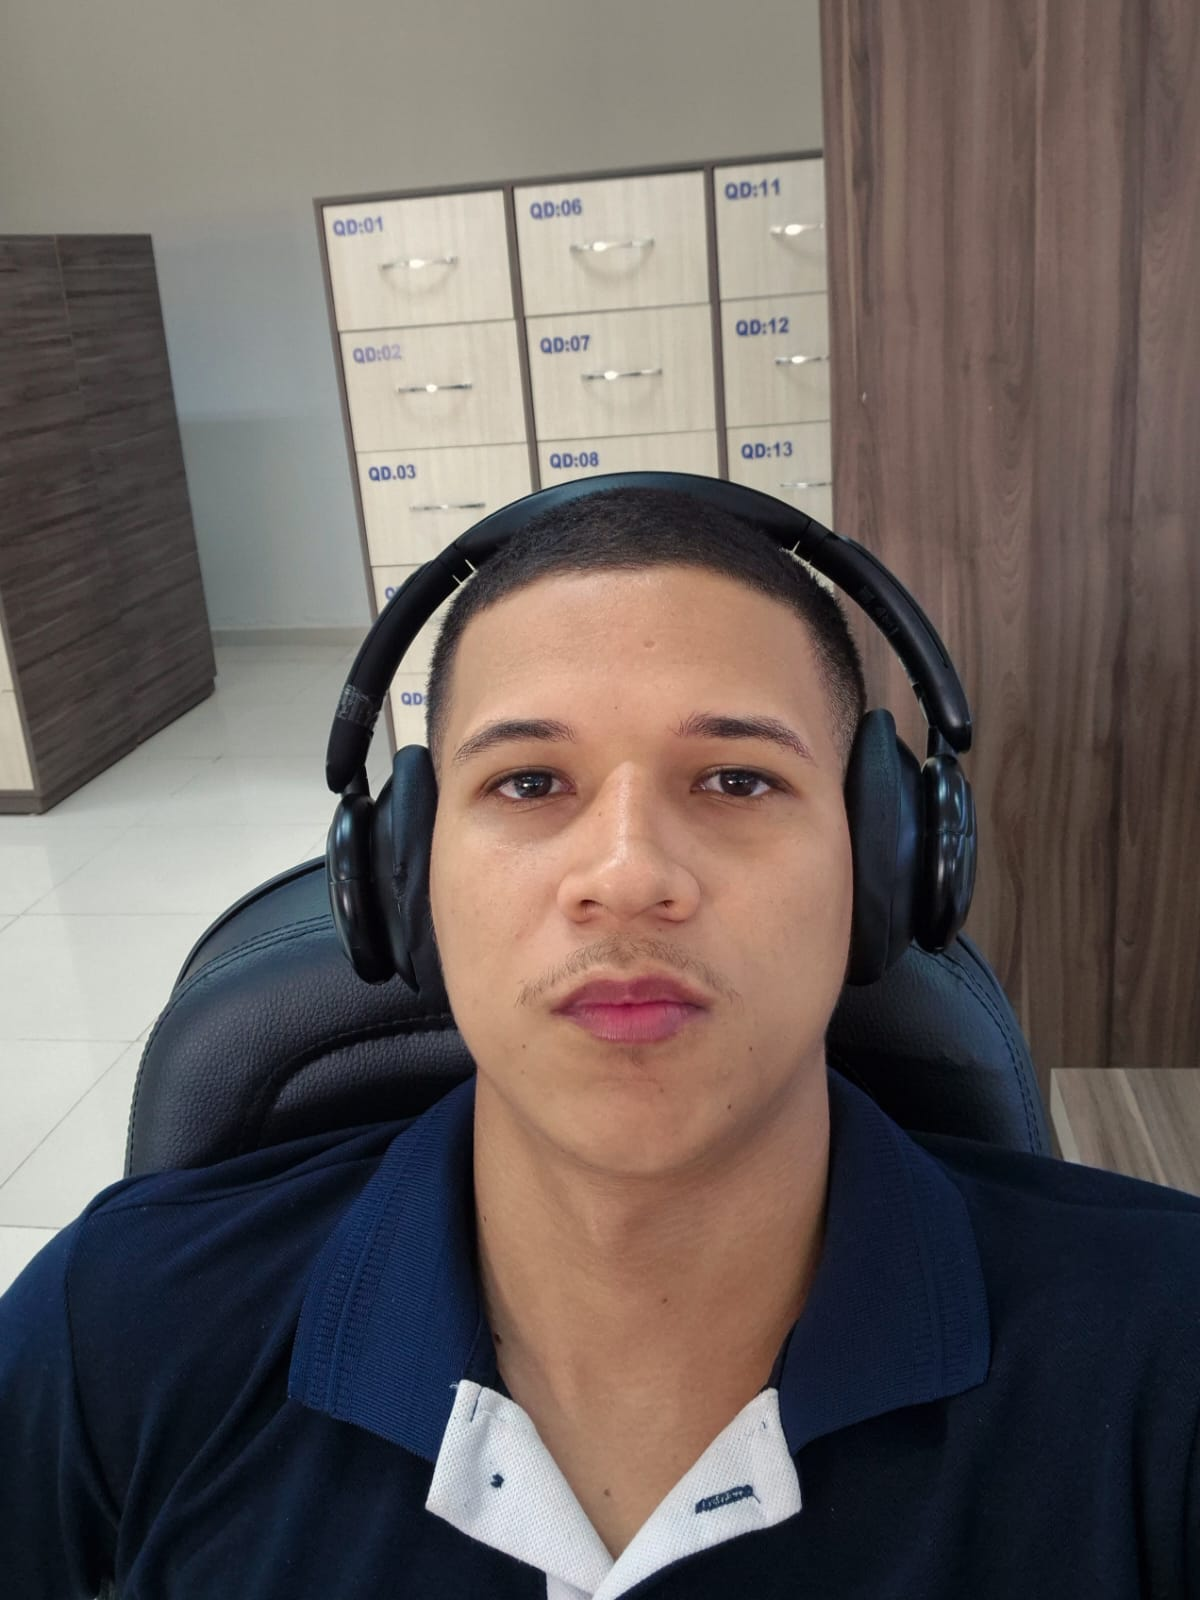
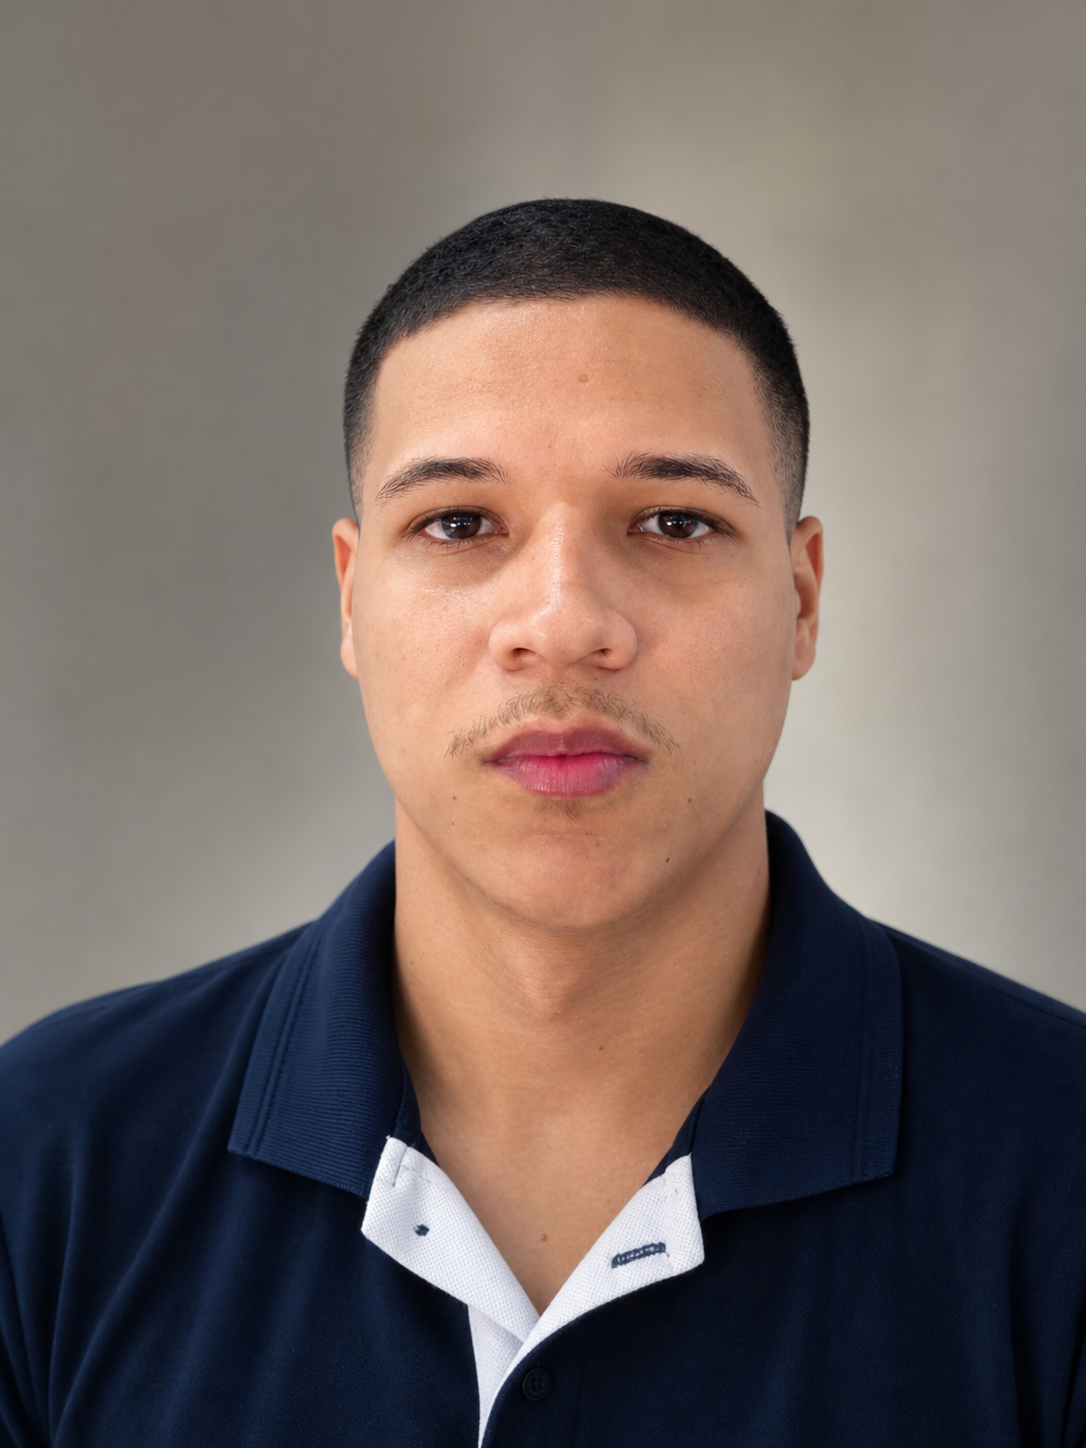
Melhora foto profissional e corrige localizacao

diff --git a/src/App.jsx b/src/App.jsx
@@ -58,7 +58,7 @@ function App() {
             </div>
             <figcaption><span>Thalissom Vinicius</span><small>Desenvolvedor de sistemas</small></figcaption>
           </motion.figure>
-          <motion.div className="hero-status" initial={{ opacity: 0 }} animate={{ opacity: 1 }} transition={{ delay: 0.45 }}><span>Belém, Pará · Brasil</span><span>Desenvolvimento · Dados · Produto</span></motion.div>
+          <motion.div className="hero-status" initial={{ opacity: 0 }} animate={{ opacity: 1 }} transition={{ delay: 0.45 }}><span>Tomé-Açu, Pará · Brasil</span><span>Desenvolvimento · Dados · Produto</span></motion.div>
         </section>
 
         <section className="statement" id="sobre">
